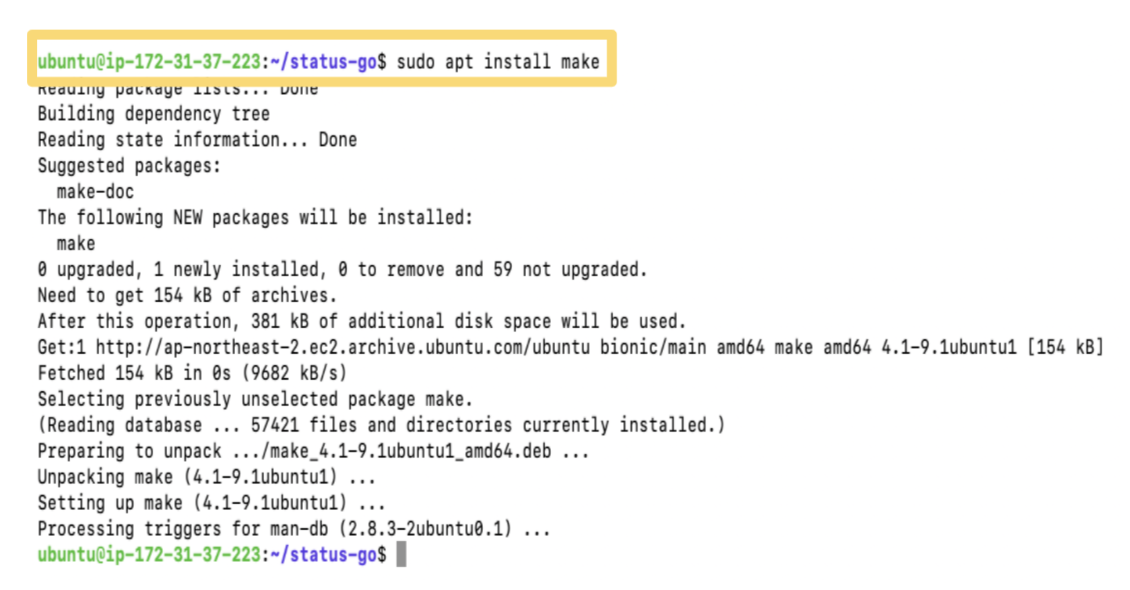
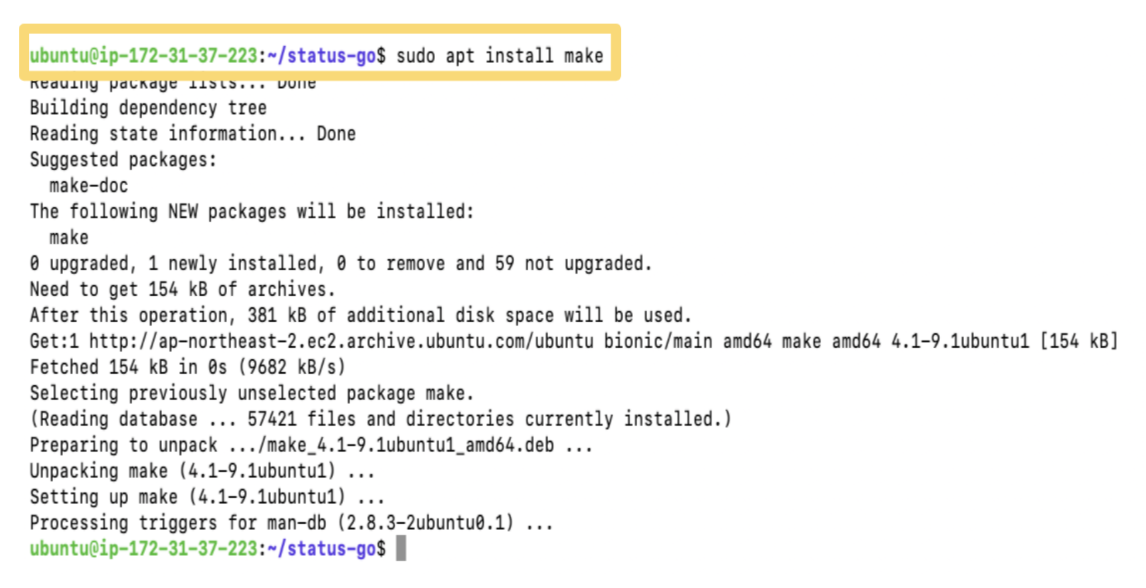
Update CSS for Status Node QuickStart

Changed region(s): [[0.0, 0.0306, 0.9912, 0.9796]]

diff --git a/source/technical/status_node_quick_start.md b/source/technical/status_node_quick_start.md
@@ -154,7 +154,7 @@ This quickstart guide uses AWS to access a cloud computing service but any cloud
 
 - `sudo apt install make`
 
-<img src="./status_node_quick_start/make.png" alt="make" style="max-width:800px;width:100%;margin:20px auto;padding:10px 0 10px 0;"/>
+<img src="./status_node_quick_start/make.png" alt="make" style="max-width:1000px;width:100%;margin:20px auto;padding:10px 0 10px 0;"/>
 
 <br/>
 
@@ -162,7 +162,7 @@ This quickstart guide uses AWS to access a cloud computing service but any cloud
 
 - `sudo apt-get install jq`
 
-<img src="./status_node_quick_start/jq.png" alt="jq" style="max-width:800px;width:100%;margin:20px auto;padding:10px 0 10px 0;"/>
+<img src="./status_node_quick_start/jq.png" alt="jq" style="max-width:1000px;width:100%;margin:20px auto;padding:10px 0 10px 0;"/>
 
 <br/>
 
@@ -172,7 +172,7 @@ This quickstart guide uses AWS to access a cloud computing service but any cloud
 
 2. `cd status-go/`
 
-<img src="./status_node_quick_start/clone-status-go.png" alt="clone-status-go" style="max-width:800px;width:100%;margin:20px auto;padding:10px 0 10px 0;"/>
+<img src="./status_node_quick_start/clone-status-go.png" alt="clone-status-go" style="max-width:1000px;width:100%;margin:20px auto;padding:10px 0 10px 0;"/>
 
 <br/>
 
@@ -180,7 +180,7 @@ This quickstart guide uses AWS to access a cloud computing service but any cloud
 
 - `make run-mailserver-docker`
 
-<img src="./status_node_quick_start/run-a-status-node.png" alt="run-a-status-node" style="max-width:800px;width:100%;margin:20px auto;padding:10px 0 10px 0;"/>
+<img src="./status_node_quick_start/run-a-status-node.png" alt="run-a-status-node" style="max-width:1000px;width:100%;margin:20px auto;padding:10px 0 10px 0;"/>
 
 <br/>
 
@@ -196,7 +196,7 @@ If there are peers connected,
 will return IP addresses
 
 
-<img src="./status_node_quick_start/health-check.png" alt="health-check" style="max-width:800px;width:100%;margin:20px auto;padding:10px 0 10px 0;"/>
+<img src="./status_node_quick_start/health-check.png" alt="health-check" style="max-width:1000px;width:100%;margin:20px auto;padding:10px 0 10px 0;"/>
 
 <br/>
 
@@ -204,7 +204,7 @@ will return IP addresses
 
 - `curl -s localhost:9090/metrics | grep '^waku_envelopes_received_total'`
 
-<img src="./status_node_quick_start/waku-envelopes.png" alt="waku-envelopes" style="max-width:800px;width:100%;margin:20px auto;padding:10px 0 10px 0;"/>
+<img src="./status_node_quick_start/waku-envelopes.png" alt="waku-envelopes" style="max-width:1000px;width:100%;margin:20px auto;padding:10px 0 10px 0;"/>
 
 <br/>
 
